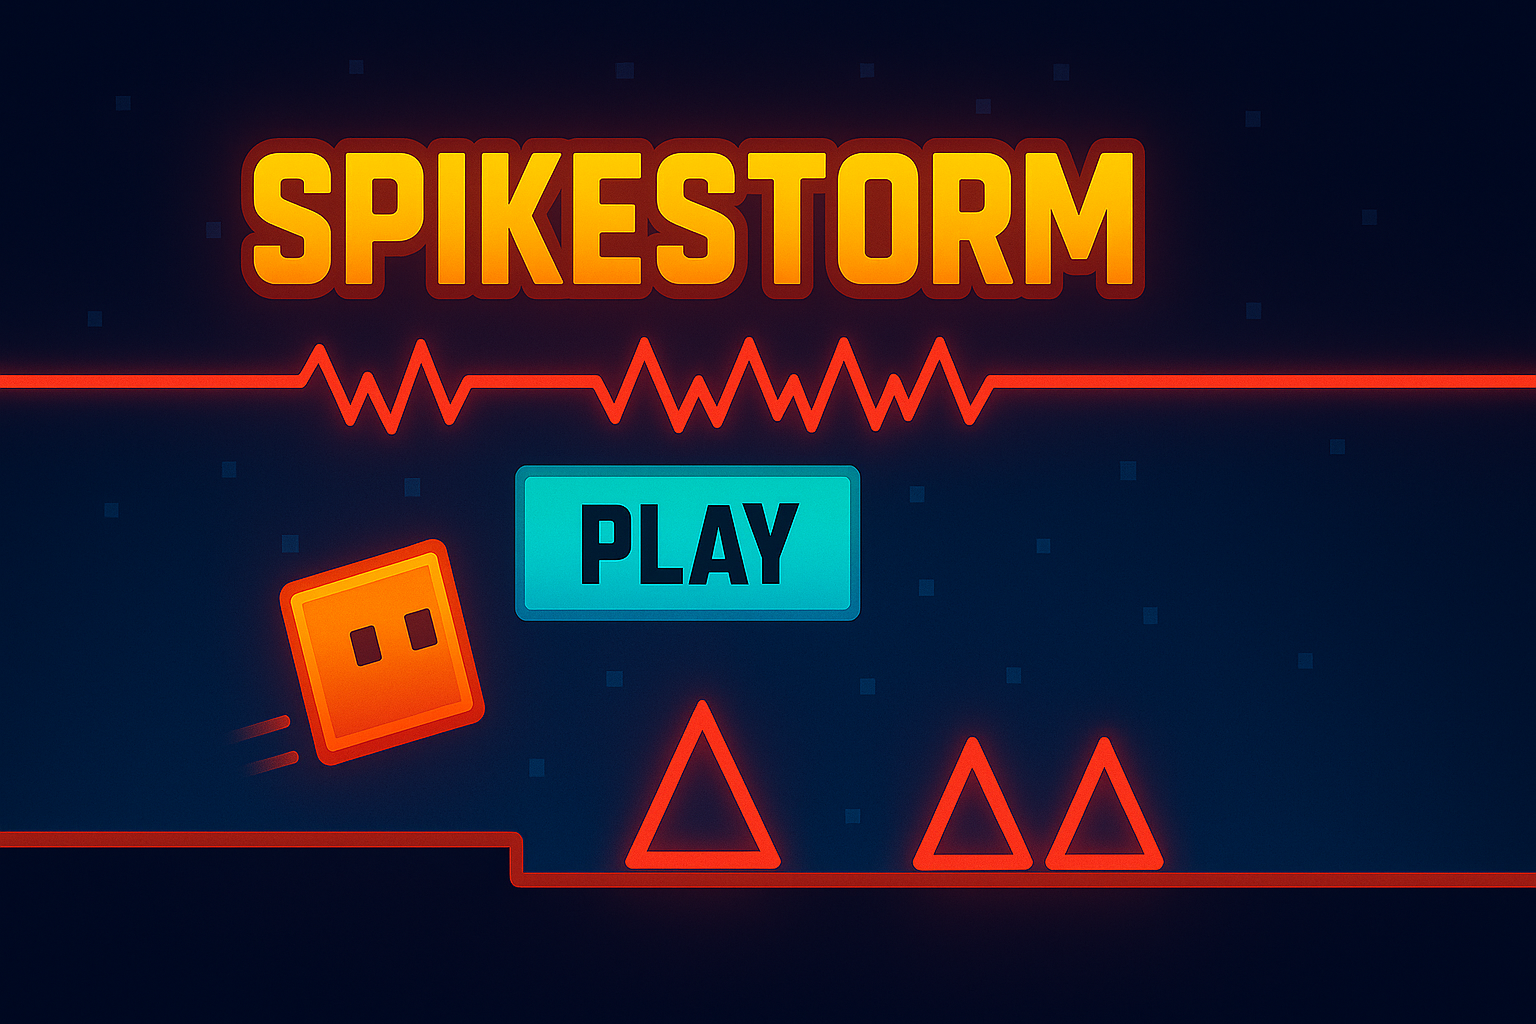
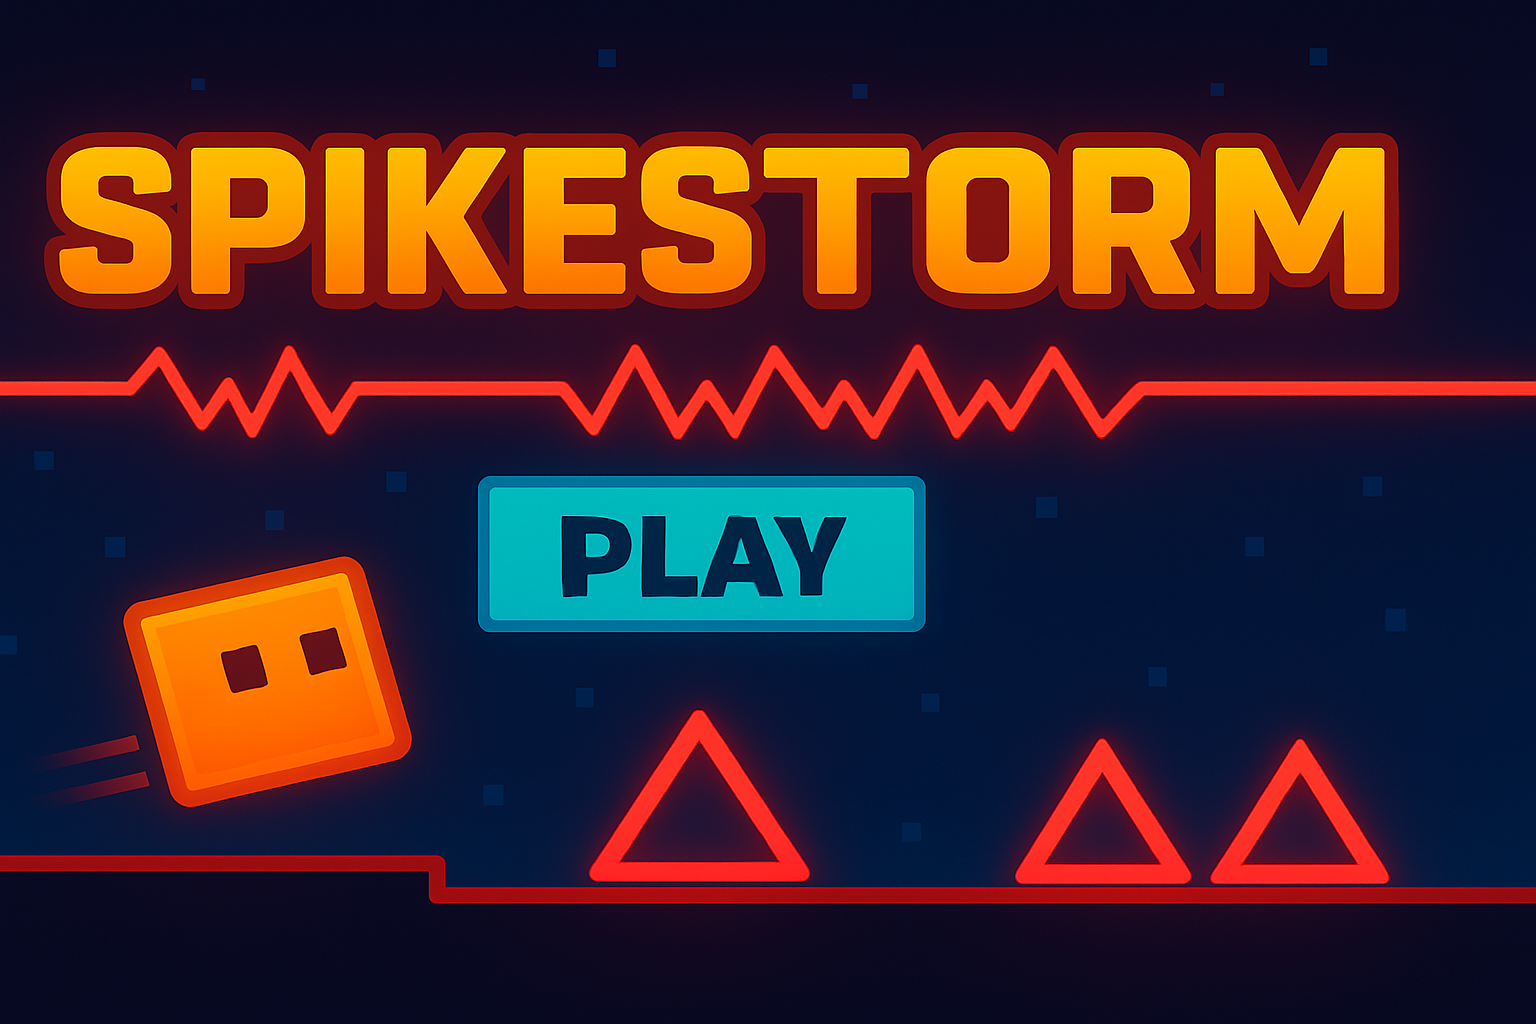
ajustes

diff --git a/main.py b/main.py
@@ -5,7 +5,7 @@ from math import *
 
 pygame.init()
 
-WIDTH, HEIGHT = 1200, 900
+WIDTH, HEIGHT = 1424, 900
 FPS = 100
 
 # Configuração da tela 
